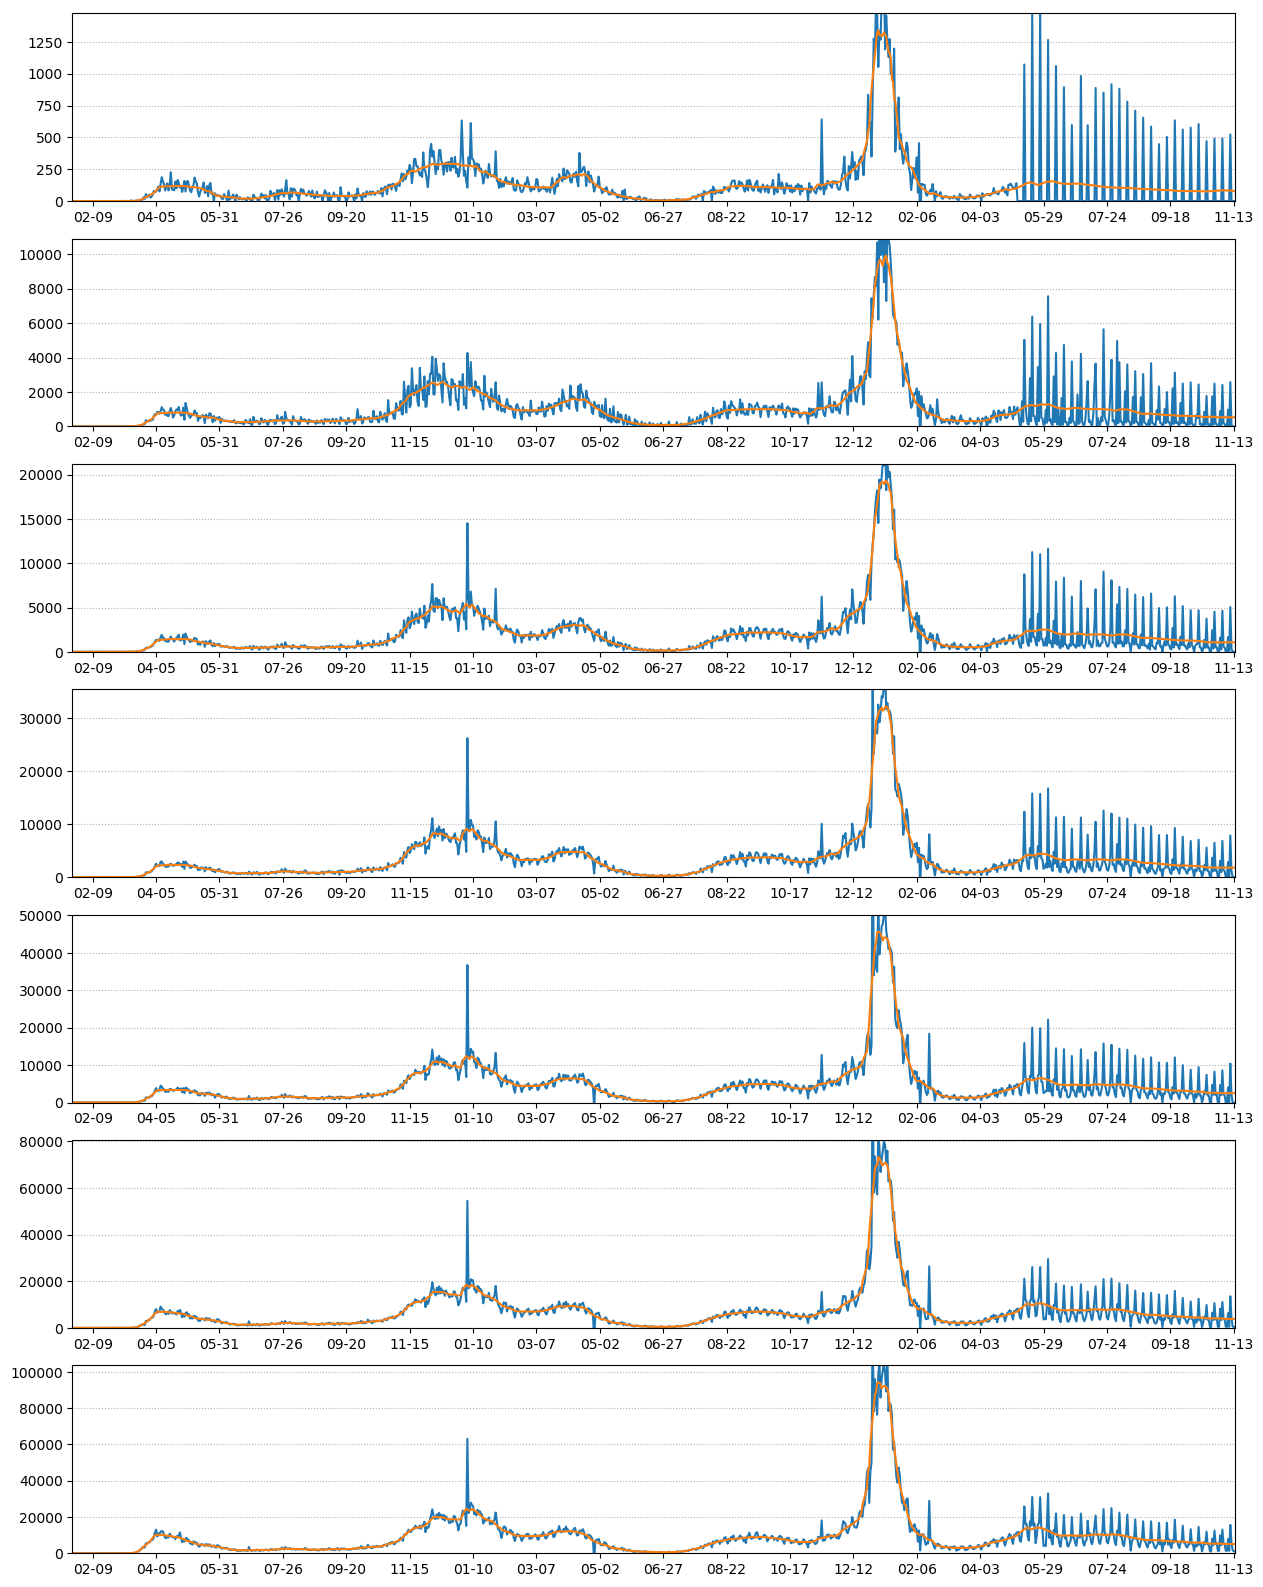
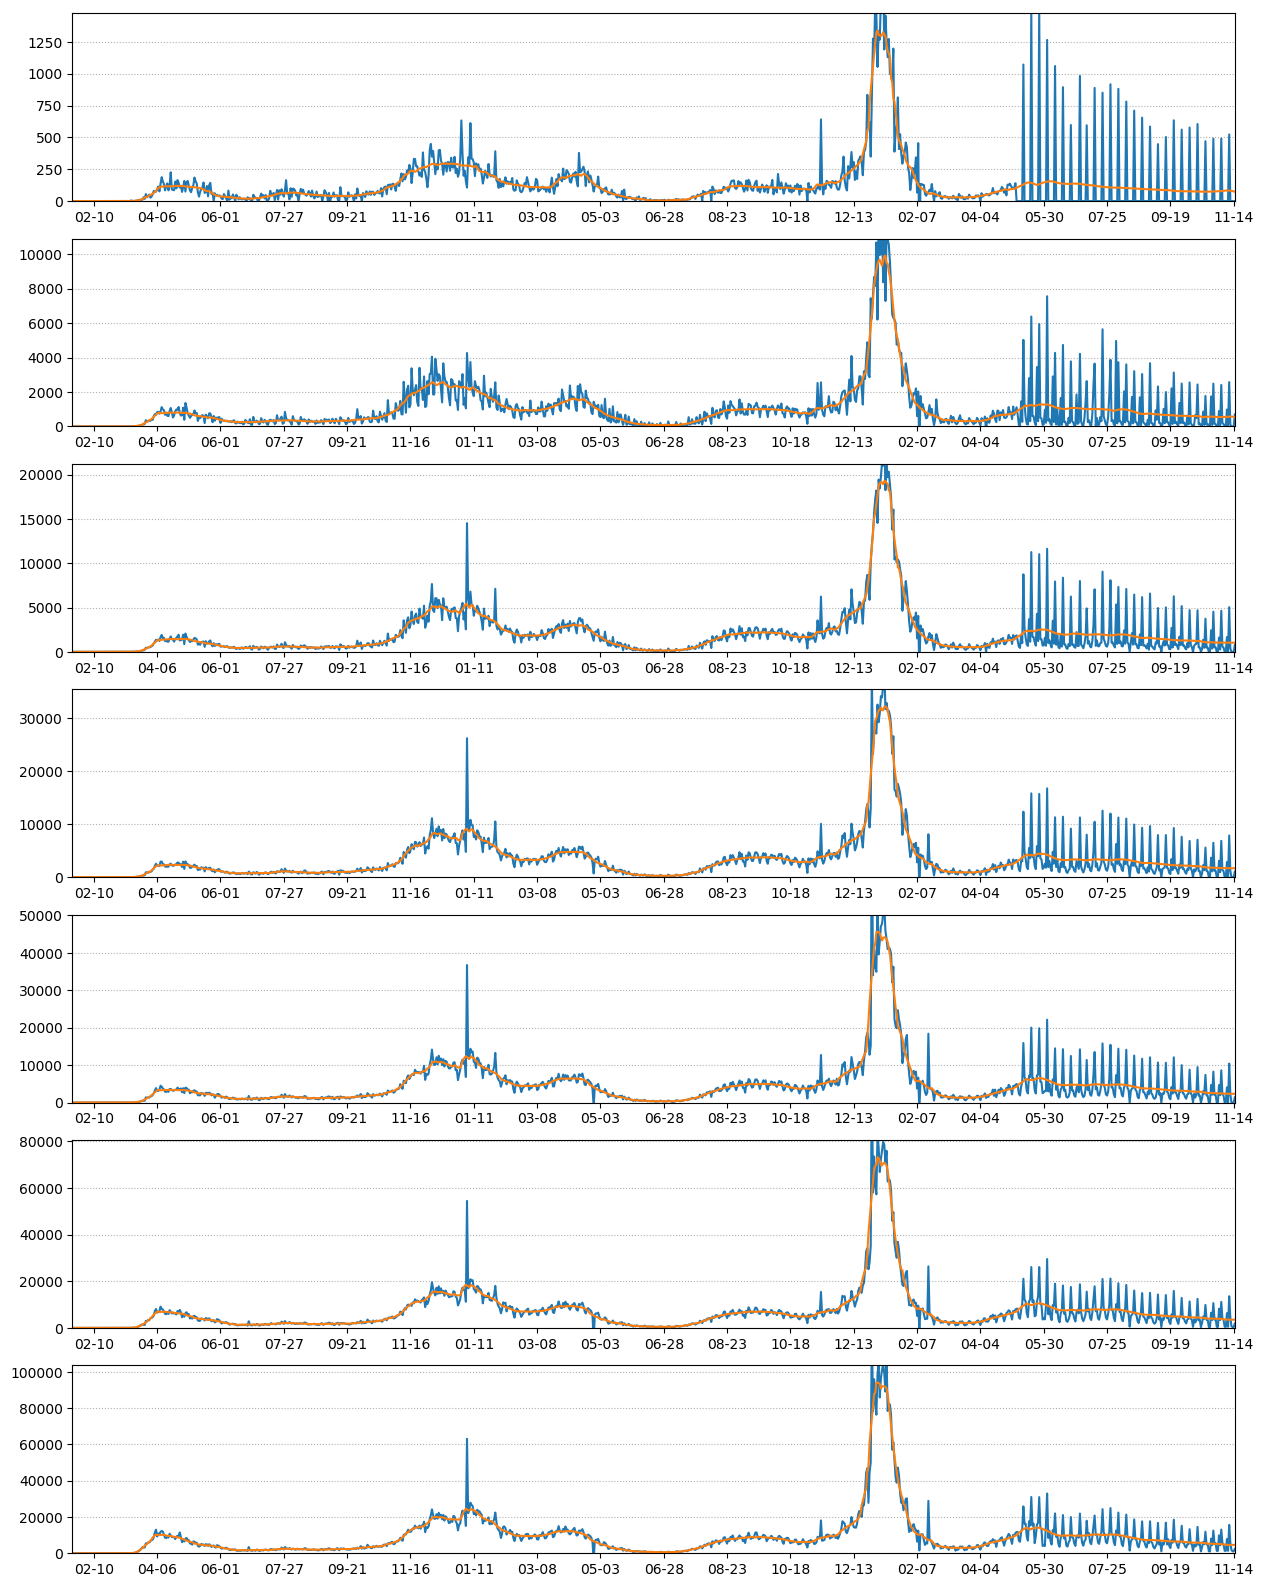
daily forecast

diff --git a/dailymessage.html b/dailymessage.html
@@ -1,46 +1,46 @@
 Delaware County COVID-19 Monitor<br>
-as of 2022-11-13<br>
+as of 2022-11-14<br>
 <table border="1" cellspacing="5" cellpadding="3">
 <tr>
 <td>0</td>
-<td>76</td>
+<td>73</td>
 <td>566747</td>
-<td>13.4</td>
+<td>12.8</td>
 </tr>
 <tr>
 <td>1</td>
-<td>533</td>
+<td>542</td>
 <td>4357104</td>
-<td>12.2</td>
+<td>12.4</td>
 </tr>
 <tr>
 <td>2</td>
-<td>1062</td>
+<td>1031</td>
 <td>8052045</td>
-<td>13.1</td>
+<td>12.8</td>
 </tr>
 <tr>
 <td>3</td>
-<td>1774</td>
+<td>1681</td>
 <td>13327166</td>
-<td>13.3</td>
+<td>12.6</td>
 </tr>
 <tr>
 <td>4</td>
-<td>2464</td>
+<td>2339</td>
 <td>18498878</td>
-<td>13.3</td>
+<td>12.6</td>
 </tr>
 <tr>
 <td>5</td>
-<td>3838</td>
+<td>3532</td>
 <td>27240755</td>
-<td>14.0</td>
+<td>12.9</td>
 </tr>
 <tr>
 <td>6</td>
-<td>5087</td>
+<td>4627</td>
 <td>34871340</td>
-<td>14.5</td>
+<td>13.2</td>
 </tr>
 </table>
